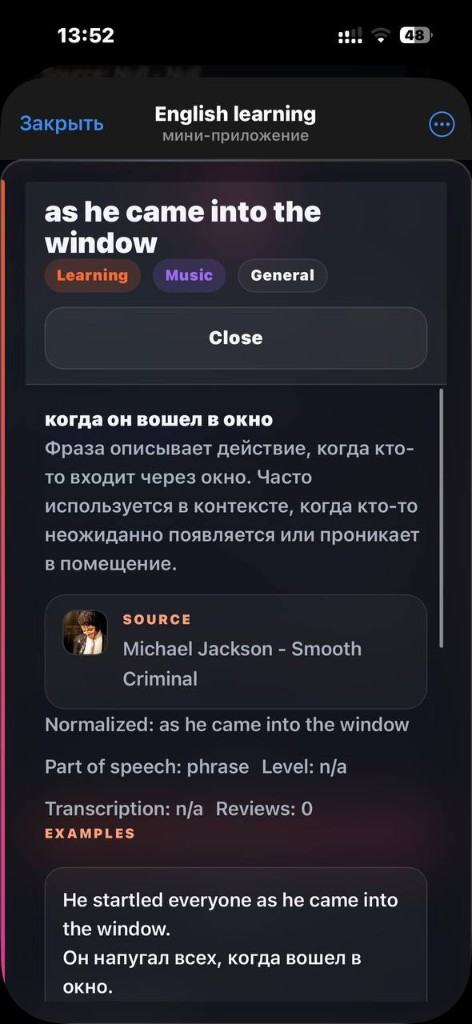
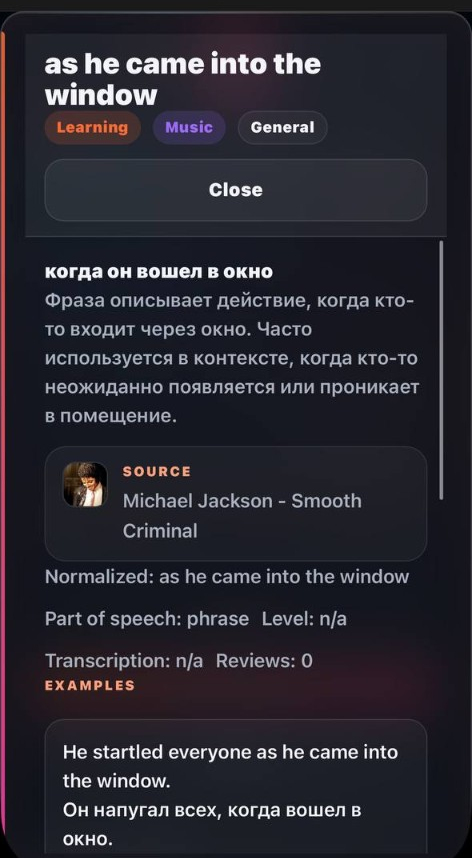
docs: crop README screenshots to app UI frame

diff --git a/docs/screenshots/README.md b/docs/screenshots/README.md
@@ -16,5 +16,5 @@ Suggested captures (portrait, Telegram Mini App on phone):
 Tips:
 
 - Use a real Telegram theme (dark looks best with this UI).
-- Crop to phone frame or use a clean device mockup.
+- Crop out the phone status bar and Telegram header — keep from the app nav bar down.
 - Keep file size under ~500 KB (WebP or compressed PNG).
